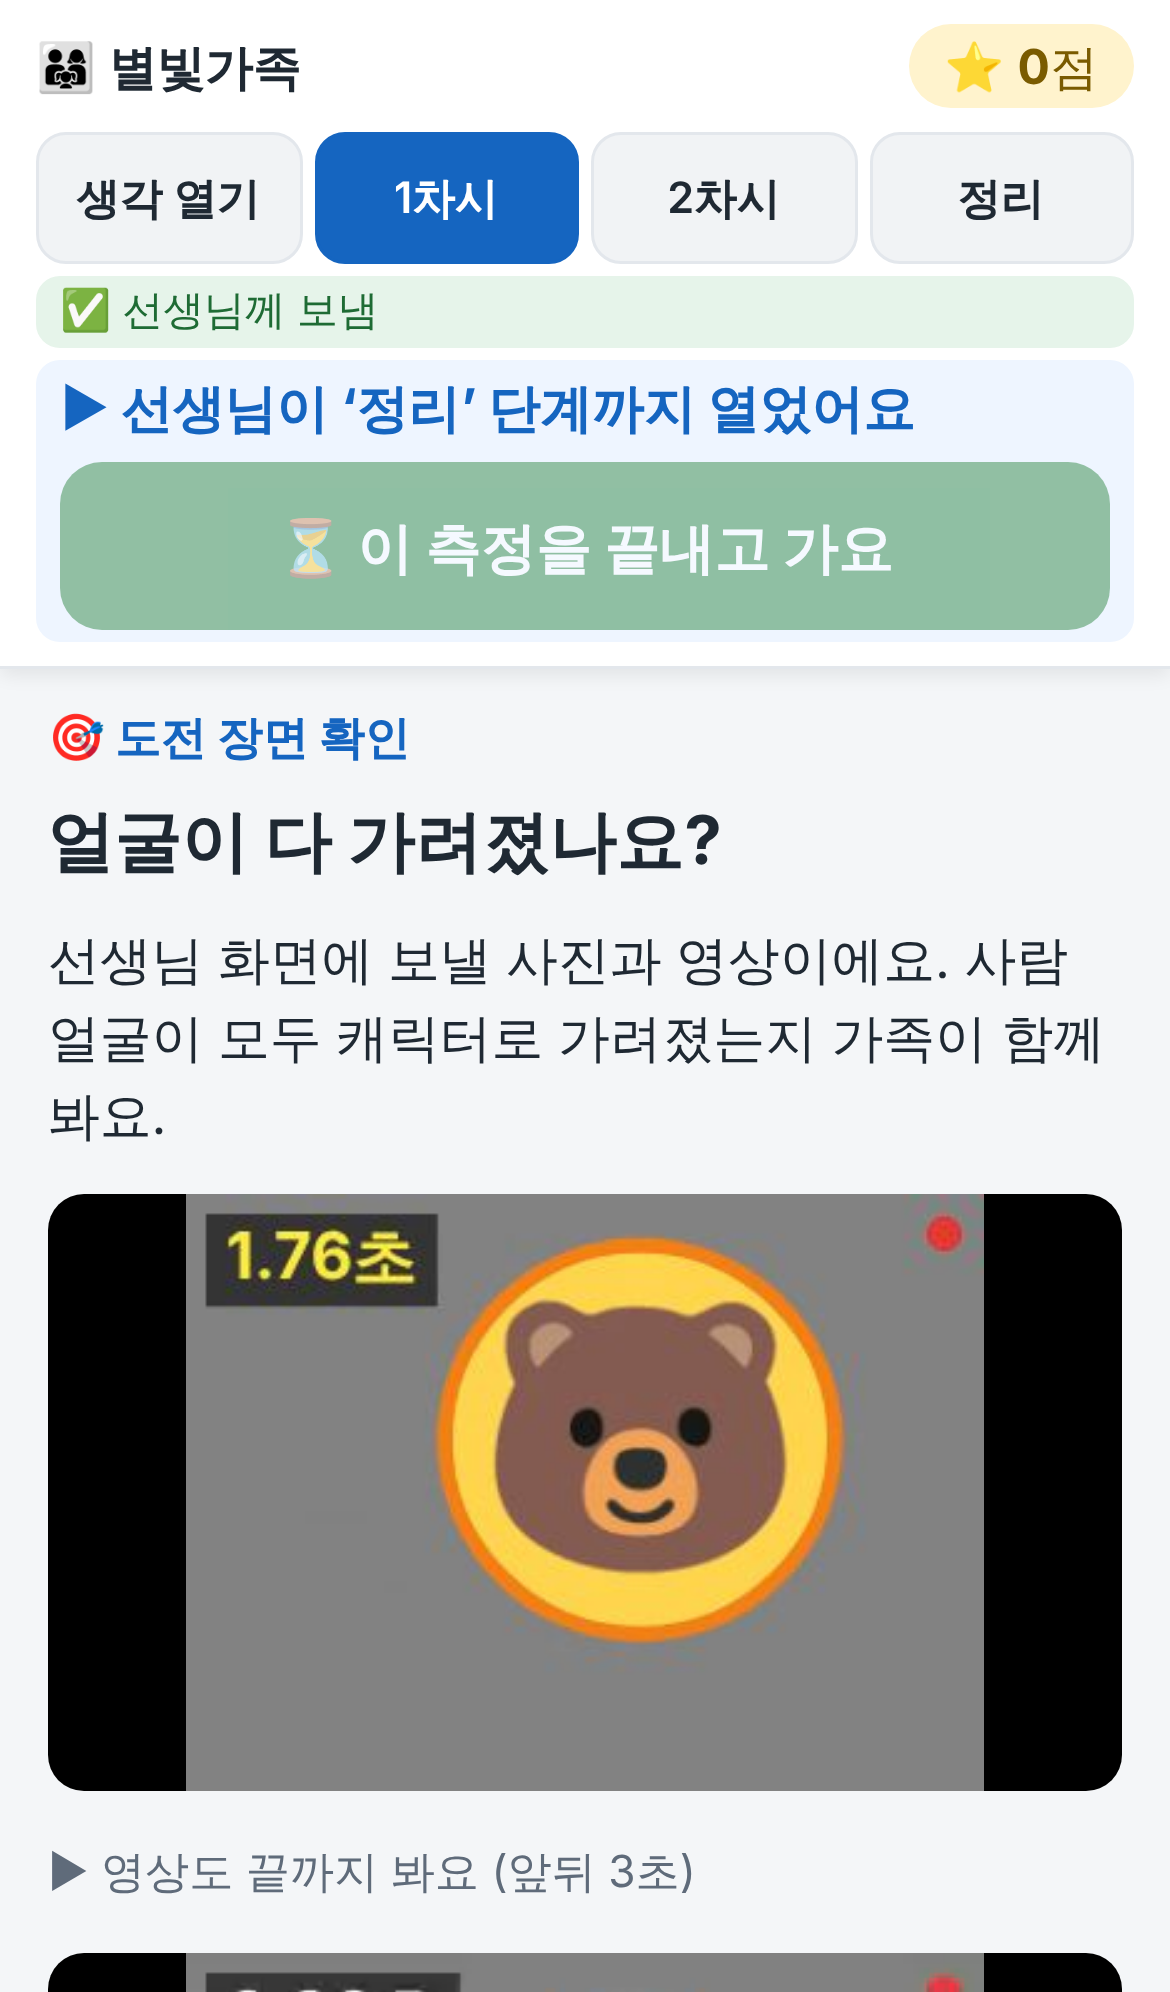
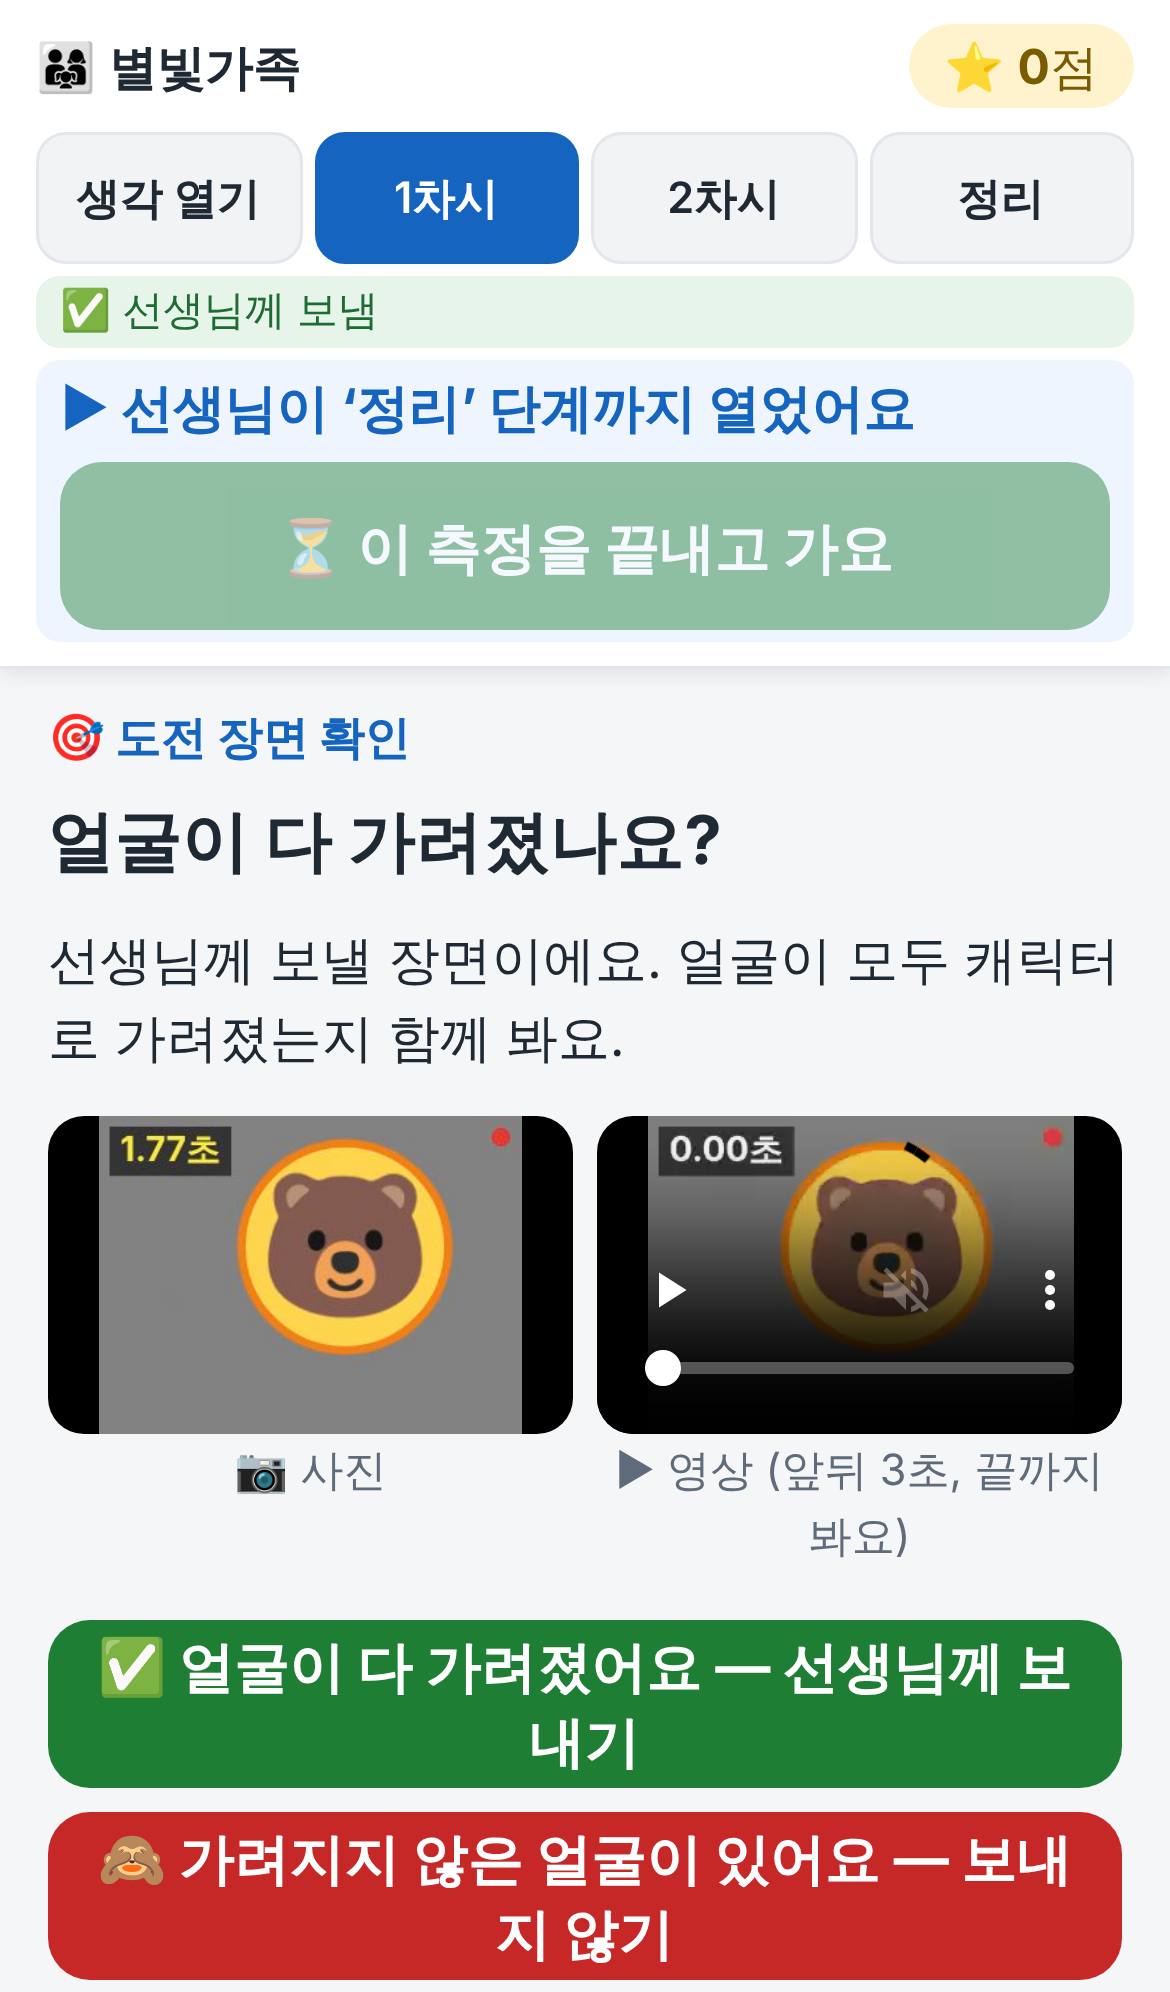
도전 장면 확인 화면: 사진 | 영상 두 칸, 두 단추까지 한 화면
Claude-Session: https://claude.ai/code/session_013iu8SMz53o82SYe7xxBGoe

diff --git a/js/film-rocket.js b/js/film-rocket.js
@@ -543,7 +543,7 @@
             var pend = media.pending[part];
             if (!pend) return { html: '<p class="ev-kicker">🎯 도전 장면 확인</p><p>확인할 장면이 없어요. 도전 장면은 보내지 않았어요.</p>' + nav(part + '-ch-result', '도전 결과 보기 →') };
             var html = '<p class="ev-kicker">🎯 도전 장면 확인</p><h2>얼굴이 다 가려졌나요?</h2>' +
-                '<p>선생님 화면에 보낼 사진과 영상이에요. 사람 얼굴이 모두 캐릭터로 가려졌는지 가족이 함께 봐요.</p>' +
+                '<p>선생님께 보낼 장면이에요. 얼굴이 모두 캐릭터로 가려졌는지 함께 봐요.</p>' +
                 '<div id="ev-chk" class="ev-chk"><p class="ev-msg" role="status">⏳ 장면을 만드는 중…</p></div>' +
                 '<div class="ev-nav col"><button type="button" class="ev-next good" id="ev-chk-send" disabled>✅ 얼굴이 다 가려졌어요 — 선생님께 보내기</button>' +
                 '<button type="button" class="ev-next danger" id="ev-chk-skip">🙈 가려지지 않은 얼굴이 있어요 — 보내지 않기</button></div>';
@@ -553,8 +553,10 @@
                 pend.made.then(function () {
                     if (!alive) return;
                     if (!pend.ph) { box.innerHTML = '<p class="ev-no">⚠ 도전 장면을 만들지 못했어요 (' + esc(pend.err) + '). 보내지 않아요.</p>'; return; }
-                    box.innerHTML = '<img id="ev-chk-img" class="ev-chk-img" alt="보낼 사진 (얼굴은 캐릭터로 가림)">' +
-                        (pend.vd ? '<p class="ev-small">▶ 영상도 끝까지 봐요 (앞뒤 3초)</p><video id="ev-chk-vid" class="ev-chk-img" controls muted playsinline preload="auto"></video>' : '');
+                    // 사진 | 영상 두 칸 (한 화면에 단추까지 보이게)
+                    box.innerHTML = '<figure><img id="ev-chk-img" class="ev-chk-img" alt="보낼 사진 (얼굴은 캐릭터로 가림)"><figcaption>📷 사진</figcaption></figure>' +
+                        (pend.vd ? '<figure><video id="ev-chk-vid" class="ev-chk-img" controls muted playsinline preload="auto"></video><figcaption>▶ 영상 (앞뒤 3초, 끝까지 봐요)</figcaption></figure>' : '');
+                    box.classList.toggle('two', !!pend.vd);
                     $('#ev-chk-img').src = pend.ph.data;
                     if (pend.vd) $('#ev-chk-vid').src = pend.vd.data;
                     send.disabled = false;

diff --git a/css/film-rocket.css b/css/film-rocket.css
@@ -179,4 +179,7 @@ html.ev-answering .ev-wrap { min-height: var(--ev-vh, 100vh); box-sizing: border
 .ev-media-msg { margin-top: var(--sp-2); }
 /* 🎯 도전 장면 확인 (보내기 전 팀이 봄): 사진·영상을 화면 폭에 크게 */
 .ev-chk { display: grid; gap: var(--sp-2); margin: var(--sp-3) 0; }
-.ev-chk-img { width: 100%; max-height: 30vh; object-fit: contain; border-radius: 12px; background: #000; }
+.ev-chk.two { grid-template-columns: 1fr 1fr; }
+.ev-chk figure { margin: 0; min-width: 0; }
+.ev-chk figcaption { font-size: .9rem; color: var(--c-muted); text-align: center; margin-top: 2px; }
+.ev-chk-img { display: block; width: 100%; height: 16vh; object-fit: contain; border-radius: 12px; background: #000; }
